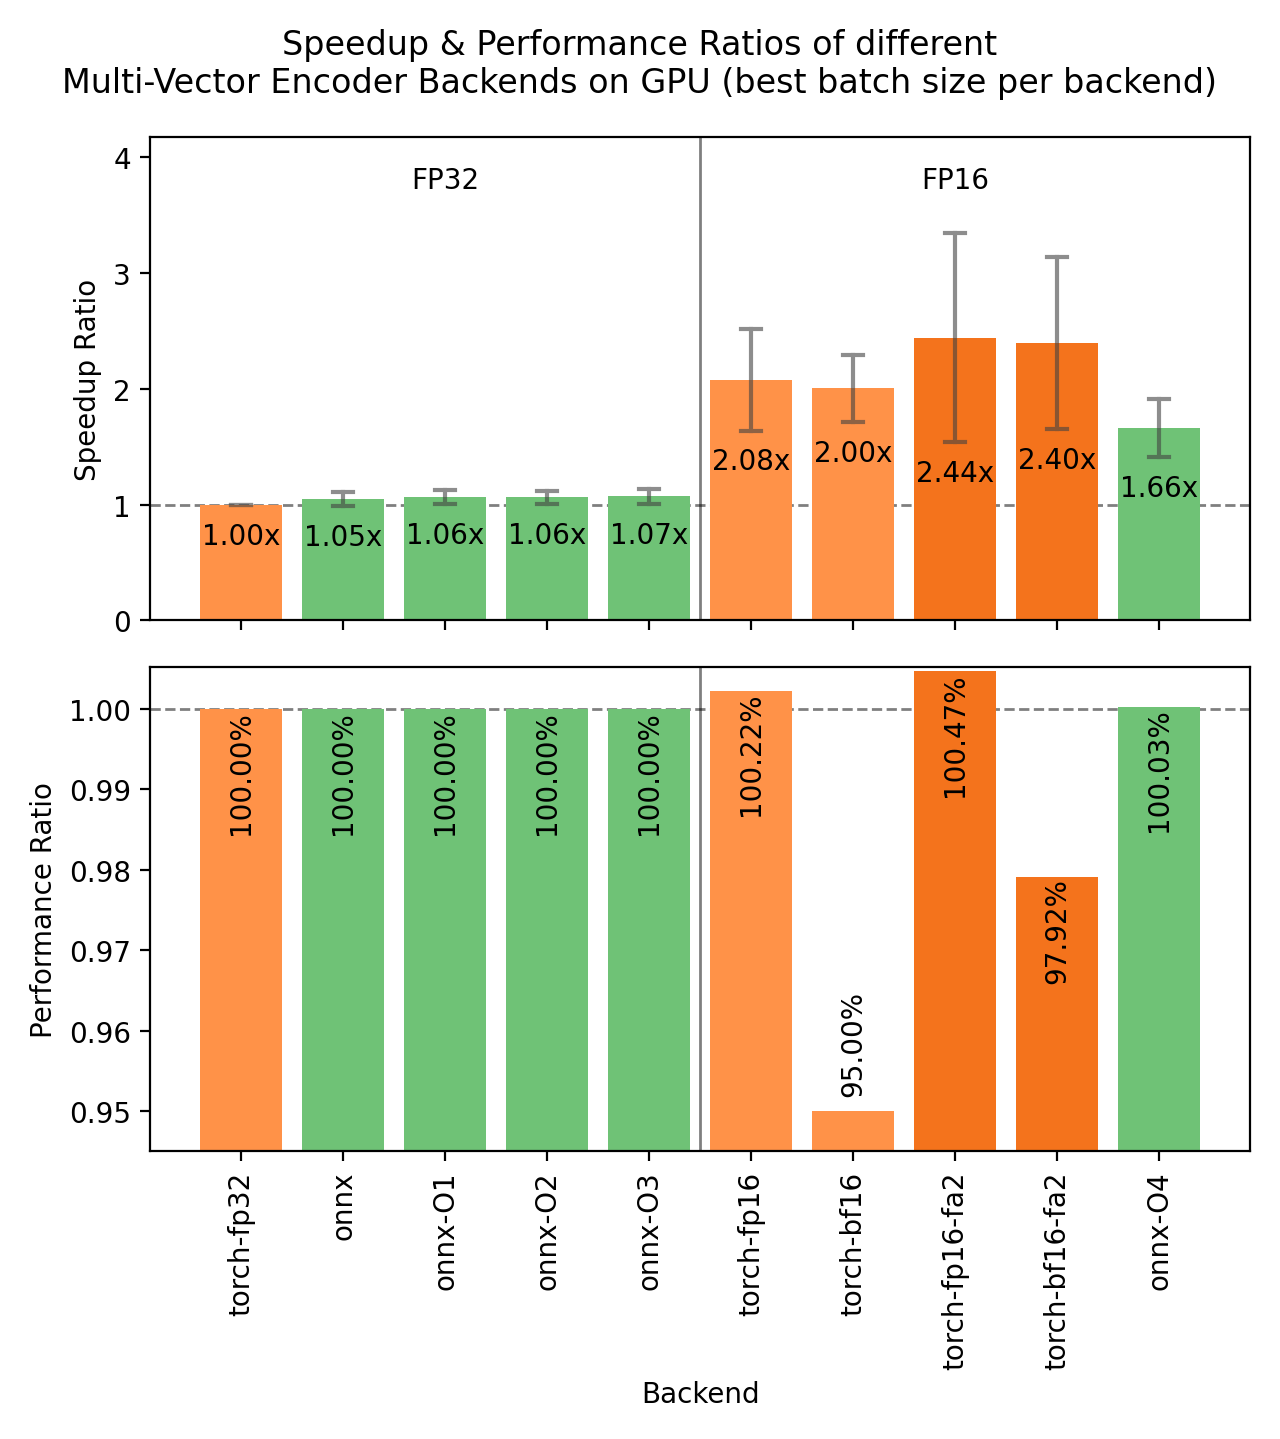
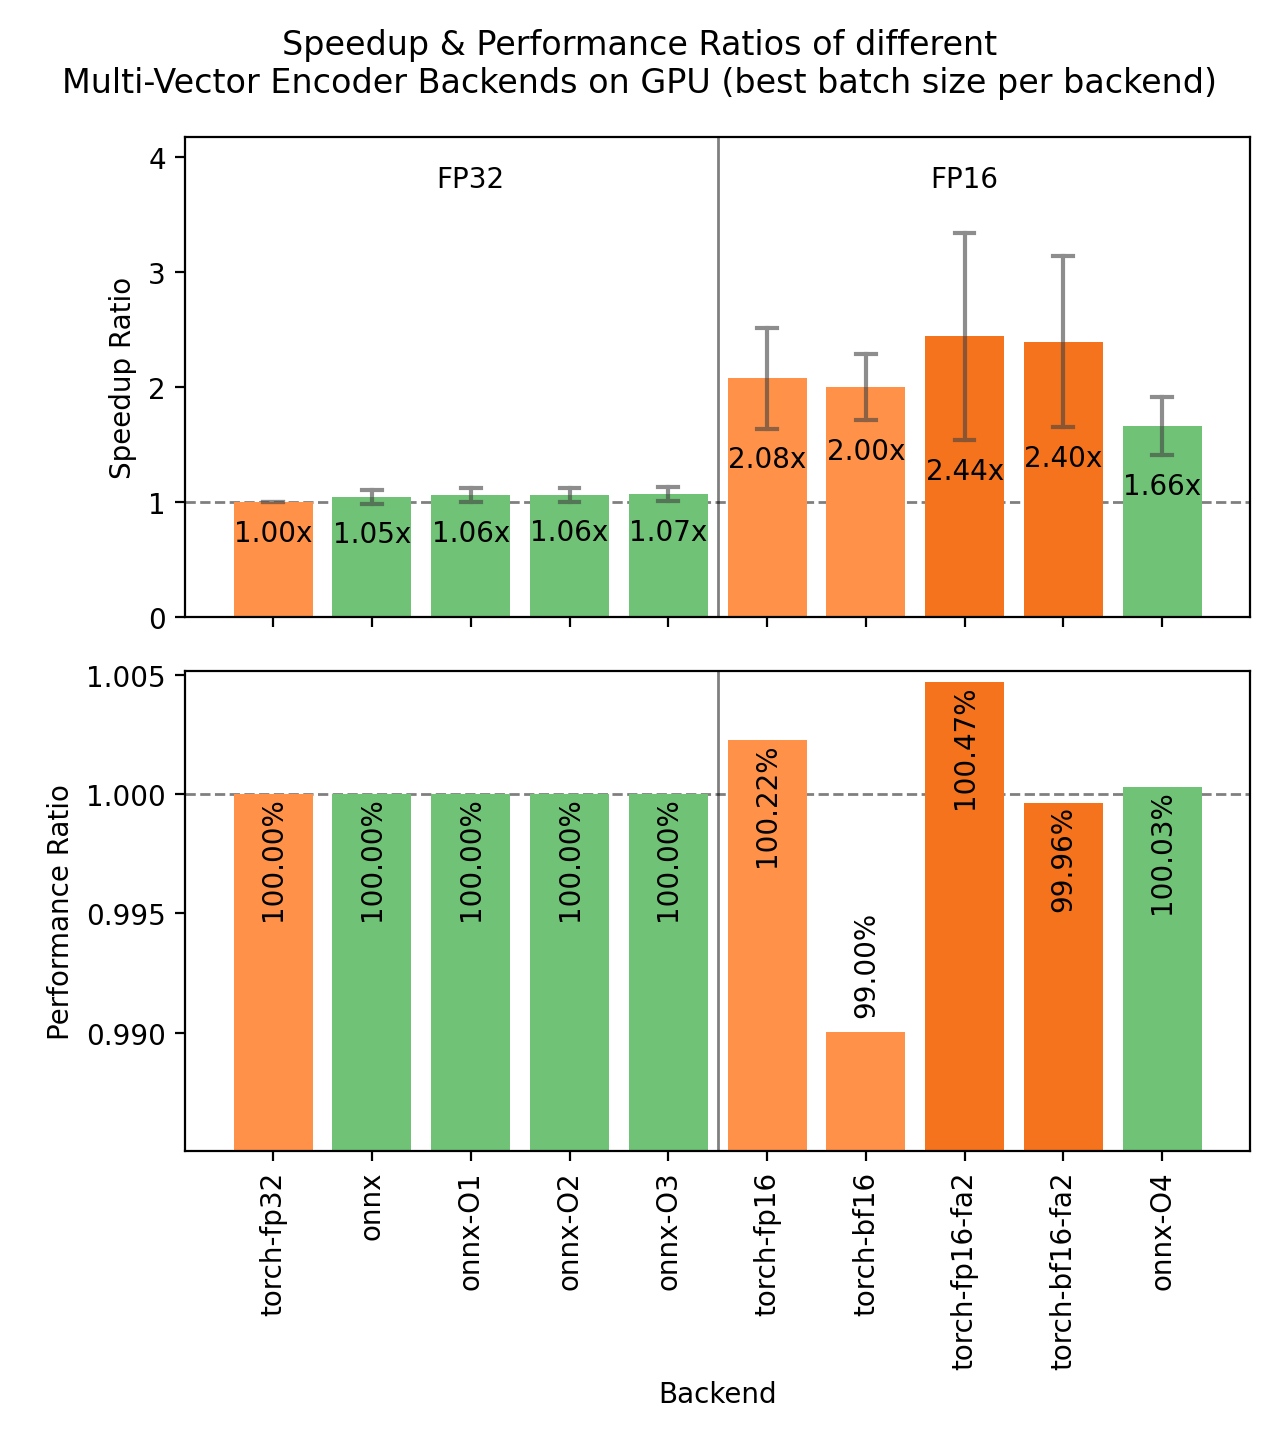
docs: Re-measure MVE bf16 benchmark quality under fp32 MaxSim accumulation (#3924)
* Re-measure MVE bf16 retrieval quality under fp32 MaxSim accumulation

* Name the SDPA baseline in the bf16 observation, keep the bf16 term consistent

diff --git a/docs/multi_vector_encoder/usage/efficiency.rst b/docs/multi_vector_encoder/usage/efficiency.rst
@@ -611,7 +611,7 @@ The following images show the benchmark results for the different backends on GP
    Notable observations:
    <ul>
       <li>
-         bfloat16 can cost real retrieval quality: both models lost quality with plain bf16 (95.0% on average: 93.8% and 96.2%), while fp16 was indistinguishable from fp32. The size of the drop is model-specific, so evaluate bf16 on your own model before committing to it. FlashAttention-2 recovered part of the bf16 loss (97.9%), likely thanks to its fp32 softmax accumulation.
+         bf16 costs a little retrieval quality with the default SDPA attention (99.0% on average: 98.8% and 99.3%, model-specific), while fp16 is indistinguishable from fp32. bf16 with FlashAttention-2 also matches fp32 (100.0%), likely thanks to its fp32 softmax accumulation. Note that multi-vector scoring sums the MaxSim token maxima in float32: with bf16 accumulation instead, this quality drop used to be five times larger.
       </li>
       <li>
          fp16 with FlashAttention-2 is the best of both worlds: the highest speedup measured (2.44x) with no quality loss, making it the recommended GPU configuration when the model supports FlashAttention-2.
